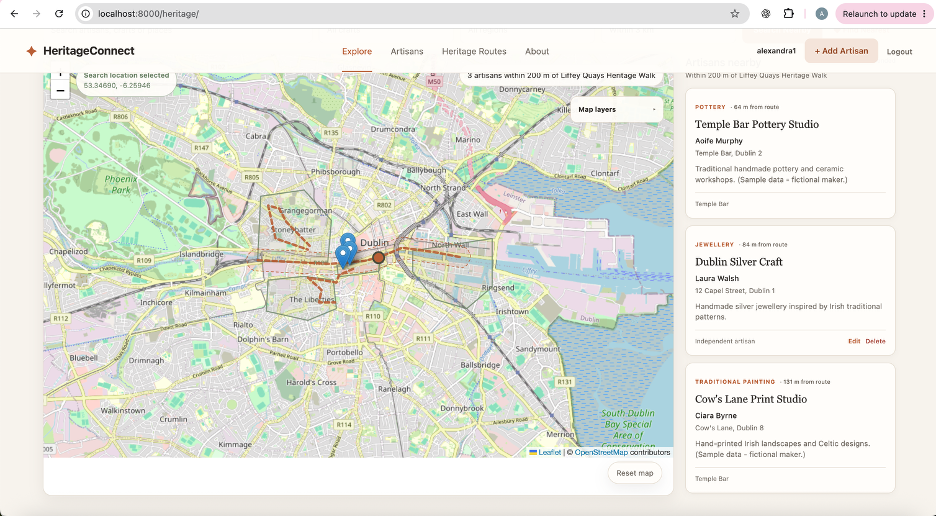
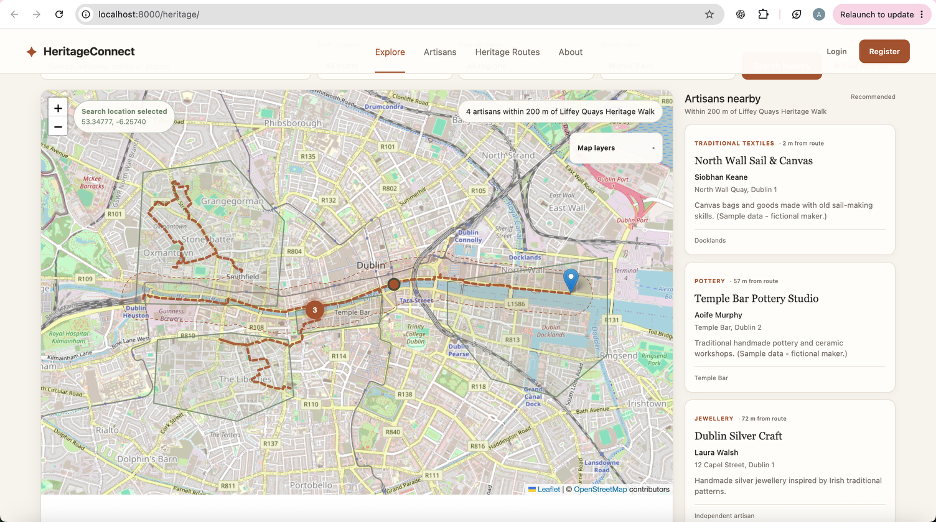
Street-following routes, combined filters, documented API, new layout
- Routes follow real streets (OSRM walking routes on OpenStreetMap data), stored as GeoJSON
- Radius/nearest accept search, craft and region filters; filters combine with map searches
- OpenAPI parameters documented for all spatial endpoints
- Full-width map with artisan cards in a responsive grid below
- Cleaner sample data text; search-location marker no longer blocks route clicks
- New screenshots; 33 tests

diff --git a/heritageconnect/static/css/heritage_styles.css b/heritageconnect/static/css/heritage_styles.css
@@ -2067,3 +2067,50 @@ textarea:focus-visible {
 .filter-note:empty {
     display: none;
 }
+
+
+/* =========================================================
+   LAYOUT: MAP ON TOP, ARTISAN CARDS IN A GRID BELOW
+   (no empty space next to the map, whatever the number of
+   artisans)
+========================================================= */
+
+.content-grid {
+    grid-template-columns: 1fr;
+    min-height: 0;
+    gap: 28px;
+}
+
+.results-panel {
+    min-height: 0;
+}
+
+#results {
+    display: grid;
+    grid-template-columns: repeat(auto-fill, minmax(280px, 1fr));
+    gap: 16px;
+    align-items: stretch;
+}
+
+/* Cards in the same row get the same height; the footer
+   (region + Edit/Delete) sits at the bottom of each card. */
+.result-item {
+    display: flex;
+    flex-direction: column;
+    height: 100%;
+}
+
+.result-item .result-description {
+    flex: 1;
+}
+
+/* Messages such as "No artisans found" span the full width */
+#results > :not(.result-item) {
+    grid-column: 1 / -1;
+}
+
+@media (max-width: 1100px) {
+    .content-grid {
+        grid-template-columns: 1fr;
+    }
+}

diff --git a/heritageconnect/templates/heritage_map.html b/heritageconnect/templates/heritage_map.html
@@ -586,9 +586,9 @@
             <div class="about-notes">
                 <h3>Data &amp; credits</h3>
                 <p>
-                    Artisans marked "Sample data" are fictional examples
-                    placed on real Dublin streets for demonstration.
-                    Region boundaries are approximate.
+                    The artisans shown are fictional examples placed on real
+                    Dublin streets for demonstration. Region boundaries are
+                    approximate.
                 </p>
                 <p>
                     Map data &copy;

diff --git a/heritageconnect/static/js/heritage_map.js b/heritageconnect/static/js/heritage_map.js
@@ -398,6 +398,12 @@ function displayArtisans(features) {
 function updateResults(features) {
     resultsContainer.innerHTML = "";
 
+    // New results: start the scrollable list at the top again.
+    const resultsPanel = document.getElementById("resultsPanel");
+    if (resultsPanel) {
+        resultsPanel.scrollTop = 0;
+    }
+
     if (features.length === 0) {
         resultsContainer.innerHTML = `
             <div class="empty-results">

diff --git a/heritageconnect/heritage/views.py b/heritageconnect/heritage/views.py
@@ -17,6 +17,8 @@ from django.contrib.gis.measure import D
 from django.db import connection
 from django.shortcuts import redirect, render
 
+from drf_spectacular.types import OpenApiTypes
+from drf_spectacular.utils import OpenApiParameter, extend_schema
 from rest_framework import status, viewsets
 from rest_framework.decorators import action
 from rest_framework.permissions import IsAuthenticatedOrReadOnly
@@ -95,6 +97,31 @@ def degrees_covering_km(km, latitude):
     return km / km_per_degree
 
 
+# ---- OpenAPI (Swagger) documentation of the query parameters ----------
+LAT_PARAM = OpenApiParameter(
+    "lat", OpenApiTypes.FLOAT, OpenApiParameter.QUERY, required=True,
+    description="Latitude in WGS84 (-90 to 90), e.g. 53.3498",
+)
+LNG_PARAM = OpenApiParameter(
+    "lng", OpenApiTypes.FLOAT, OpenApiParameter.QUERY, required=True,
+    description="Longitude in WGS84 (-180 to 180), e.g. -6.2603",
+)
+FILTER_PARAMS = [
+    OpenApiParameter(
+        "search", OpenApiTypes.STR, OpenApiParameter.QUERY,
+        description="Optional text filter (name, maker, address, craft)",
+    ),
+    OpenApiParameter(
+        "craft_type", OpenApiTypes.STR, OpenApiParameter.QUERY,
+        description="Optional craft filter, e.g. POTTERY or WEAVING",
+    ),
+    OpenApiParameter(
+        "region", OpenApiTypes.INT, OpenApiParameter.QUERY,
+        description="Optional cultural region id",
+    ),
+]
+
+
 def bad_request(message):
     return Response({"error": message}, status=status.HTTP_400_BAD_REQUEST)
 
@@ -152,6 +179,19 @@ class ArtisanLocationViewSet(viewsets.ModelViewSet):
         # the request body, so users cannot create items as someone else.
         serializer.save(owner=self.request.user)
 
+    @extend_schema(
+        parameters=[
+            LAT_PARAM,
+            LNG_PARAM,
+            OpenApiParameter(
+                "radius", OpenApiTypes.FLOAT, OpenApiParameter.QUERY,
+                required=True,
+                description=f"Search radius in km (0.01 to {MAX_RADIUS_KM})",
+            ),
+            *FILTER_PARAMS,
+        ],
+        responses={200: OpenApiTypes.OBJECT, 400: OpenApiTypes.OBJECT},
+    )
     @action(detail=False, methods=["get"])
     def within_radius(self, request):
         """
@@ -200,6 +240,14 @@ class ArtisanLocationViewSet(viewsets.ModelViewSet):
             }
         )
 
+    @extend_schema(
+        parameters=[LAT_PARAM, LNG_PARAM, *FILTER_PARAMS],
+        responses={
+            200: OpenApiTypes.OBJECT,
+            400: OpenApiTypes.OBJECT,
+            404: OpenApiTypes.OBJECT,
+        },
+    )
     @action(detail=False, methods=["get"])
     def nearest(self, request):
         """
@@ -269,6 +317,10 @@ class CulturalRegionViewSet(viewsets.ModelViewSet):
     search_fields = ["name", "region_type", "description"]
     ordering_fields = ["name"]
 
+    @extend_schema(
+        parameters=[],
+        responses={200: OpenApiTypes.OBJECT, 404: OpenApiTypes.OBJECT},
+    )
     @action(detail=True, methods=["get"])
     def artisans(self, request, pk=None):
         """
@@ -322,6 +374,20 @@ class HeritageRouteViewSet(viewsets.ModelViewSet):
     filterset_fields = ["route_type"]
     ordering_fields = ["name", "distance_km"]
 
+    @extend_schema(
+        parameters=[
+            OpenApiParameter(
+                "region_id", OpenApiTypes.INT, OpenApiParameter.QUERY,
+                required=True,
+                description="Id of the cultural region to test against",
+            ),
+        ],
+        responses={
+            200: OpenApiTypes.OBJECT,
+            400: OpenApiTypes.OBJECT,
+            404: OpenApiTypes.OBJECT,
+        },
+    )
     @action(detail=False, methods=["get"])
     def intersecting_region(self, request):
         """
@@ -365,6 +431,22 @@ class HeritageRouteViewSet(viewsets.ModelViewSet):
             }
         )
 
+    @extend_schema(
+        parameters=[
+            OpenApiParameter(
+                "distance", OpenApiTypes.FLOAT, OpenApiParameter.QUERY,
+                description=(
+                    f"Buffer distance in metres (10 to {MAX_BUFFER_M}, "
+                    f"default {DEFAULT_BUFFER_M})"
+                ),
+            ),
+        ],
+        responses={
+            200: OpenApiTypes.OBJECT,
+            400: OpenApiTypes.OBJECT,
+            404: OpenApiTypes.OBJECT,
+        },
+    )
     @action(detail=True, methods=["get"])
     def artisans_nearby(self, request, pk=None):
         """

diff --git a/heritageconnect/heritage/management/commands/load_heritage_data.py b/heritageconnect/heritage/management/commands/load_heritage_data.py
@@ -5,8 +5,8 @@ Load HeritageConnect sample data.
 
 What it does:
   * Replaces all cultural regions and heritage routes.
-  * Replaces SAMPLE artisans only - rows created by this command,
-    recognised by the SAMPLE_NOTE marker in their description.
+  * Replaces SAMPLE artisans only - rows created by this command
+    (no owner, and a name from the ARTISANS list below).
     Every other artisan (created by users) is kept.
   * Re-links every artisan to the region that spatially contains it.
 
@@ -22,9 +22,6 @@ from django.core.management.base import BaseCommand
 from django.db import transaction
 
 from heritage.models import ArtisanLocation, CulturalRegion, HeritageRoute
-
-
-SAMPLE_NOTE = " (Sample data - fictional maker.)"
 
 
 REGIONS = [
@@ -146,11 +143,12 @@ class Command(BaseCommand):
     def handle(self, *args, **options):
         self.stdout.write("Loading HeritageConnect sample data...")
 
-        # Only delete rows this command created earlier (marked with
-        # SAMPLE_NOTE). User-created artisans are never deleted.
+        # Only delete rows this command created earlier: no owner and a
+        # name from the sample list. User-created artisans are never deleted.
+        sample_names = [artisan[0] for artisan in ARTISANS]
         deleted_artisans, _ = (
             ArtisanLocation.objects
-            .filter(owner__isnull=True, description__endswith=SAMPLE_NOTE)
+            .filter(owner__isnull=True, name__in=sample_names)
             .delete()
         )
         HeritageRoute.objects.all().delete()
@@ -191,13 +189,13 @@ class Command(BaseCommand):
                 address=address,
                 location=Point(lng, lat, srid=4326),
                 opening_hours=hours,
-                description=description + SAMPLE_NOTE,
+                description=description,
             )
 
-        # Re-link all non-sample artisans to the new regions.
+        # Re-link all other (user-created) artisans to the new regions.
         relinked = 0
         for artisan in ArtisanLocation.objects.exclude(
-            description__endswith=SAMPLE_NOTE
+            owner__isnull=True, name__in=sample_names
         ):
             artisan.region = (
                 CulturalRegion.objects

diff --git a/heritageconnect/heritage/management/commands/create_demo_user.py b/heritageconnect/heritage/management/commands/create_demo_user.py
@@ -5,8 +5,8 @@ Create (or reset) a demo account for markers / testers.
 
   * Username: demo   (normal user - NOT staff, cannot change regions/routes)
   * Password: value of DEMO_USER_PASSWORD in .env, or the default below
-  * Also creates one artisan owned by the demo user, so Edit/Delete
-    can be tried immediately.
+  * Also creates one artisan owned by the demo user ("Meath Street
+    Basketry"), so Edit/Delete can be tried immediately.
 
 This is a local demonstration account only. Never reuse this password.
 """
@@ -36,18 +36,22 @@ class Command(BaseCommand):
         user.is_superuser = False
         user.save()
 
+        # Remove the artisan created by older versions of this command.
+        ArtisanLocation.objects.filter(
+            owner=user, name="Demo Basket Weaver"
+        ).delete()
+
         artisan, _ = ArtisanLocation.objects.update_or_create(
             owner=user,
-            name="Demo Basket Weaver",
+            name="Meath Street Basketry",
             defaults={
-                "artisan_name": "Demo User",
+                "artisan_name": "Róisín Daly",
                 "craft_type": "WEAVING",
                 "address": "Meath Street, Dublin 8",
                 "location": Point(-6.2780, 53.3405, srid=4326),
                 "opening_hours": "10:00 - 16:00",
                 "description": (
-                    "Artisan owned by the demo account - try Edit or "
-                    "Delete on it."
+                    "Hand-woven willow baskets and traditional Irish creels."
                 ),
             },
         )

diff --git a/heritageconnect/README.md b/heritageconnect/README.md
@@ -272,7 +272,7 @@ DigitalOcean):
 
 | Role | Username | Password | Can do |
 |---|---|---|---|
-| Normal user | `demo` | `HeritageDemo2026!` | Browse, add artisans, edit/delete **own** artisans (owns *Demo Basket Weaver*) |
+| Normal user | `demo` | `HeritageDemo2026!` | Browse, add artisans, edit/delete **own** artisans (owns *Meath Street Basketry*) |
 | Admin | create with `createsuperuser` | – | Everything, incl. regions & routes in `/admin/` |
 
 Create or reset the demo account at any time:
@@ -348,16 +348,16 @@ X-CSRFToken: <csrftoken cookie>
 ### Example – buffer query
 (IDs, distances and counts depend on the loaded data.)
 ```http
-GET /api/heritage/routes/3/artisans_nearby/?distance=200
+GET /api/heritage/routes/6/artisans_nearby/?distance=200
 ```
 ```json
 {
-  "route": { "id": 3, "name": "Liffey Quays Heritage Walk", "distance_km": "3.79" },
+  "route": { "id": 6, "name": "Liffey Quays Heritage Walk", "distance_km": "4.35" },
   "buffer_m": 200.0,
   "buffer": { "type": "Polygon", "coordinates": [ ... ] },
-  "count": 3,
+  "count": 4,
   "artisans": { "type": "FeatureCollection", "features": [
-    { "type": "Feature", "properties": { "name": "Temple Bar Pottery Studio", "distance_to_route_m": 64, ... } }
+    { "type": "Feature", "properties": { "name": "North Wall Sail & Canvas", "distance_to_route_m": 2, ... } }
   ] }
 }
 ```
